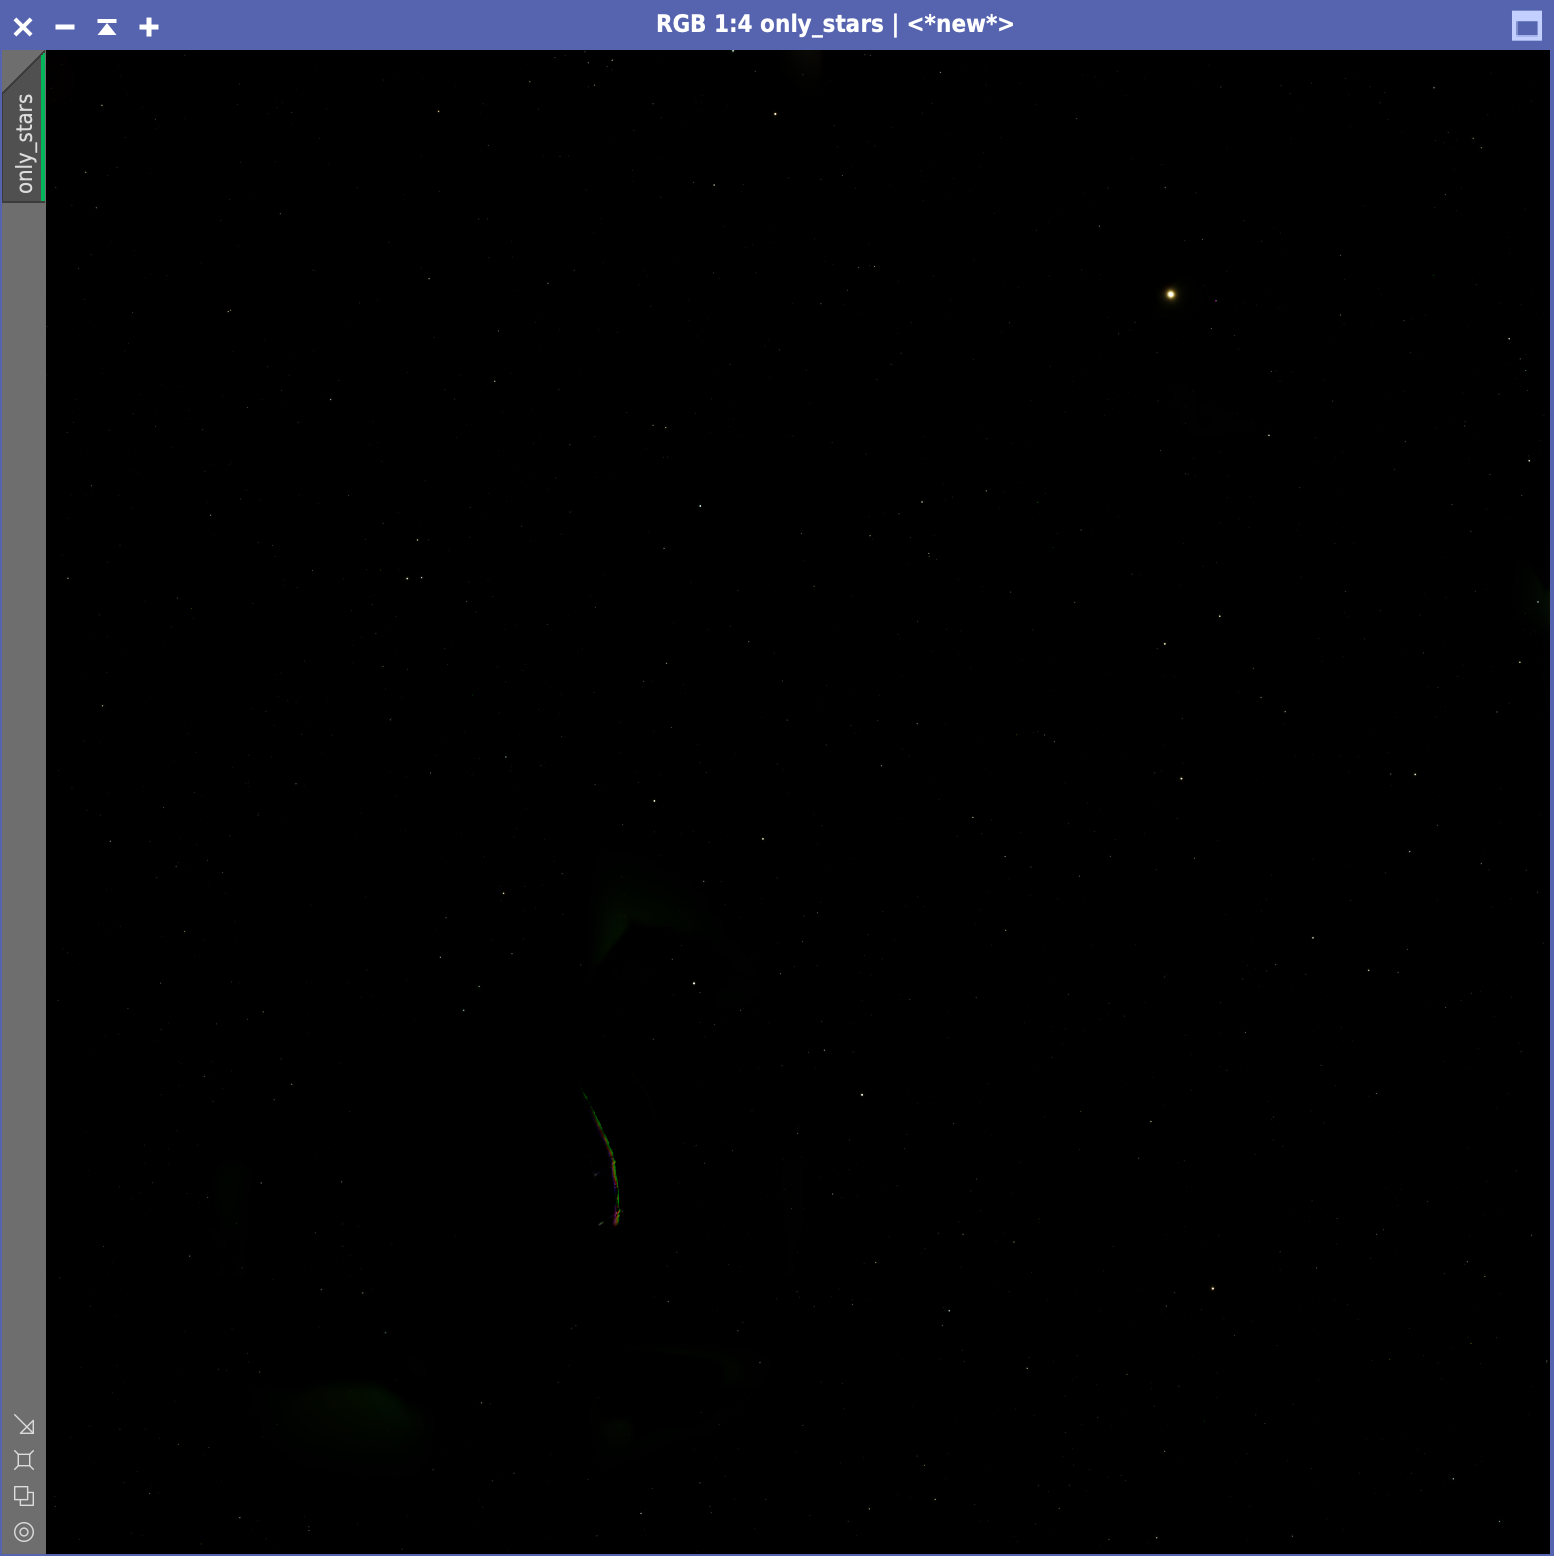
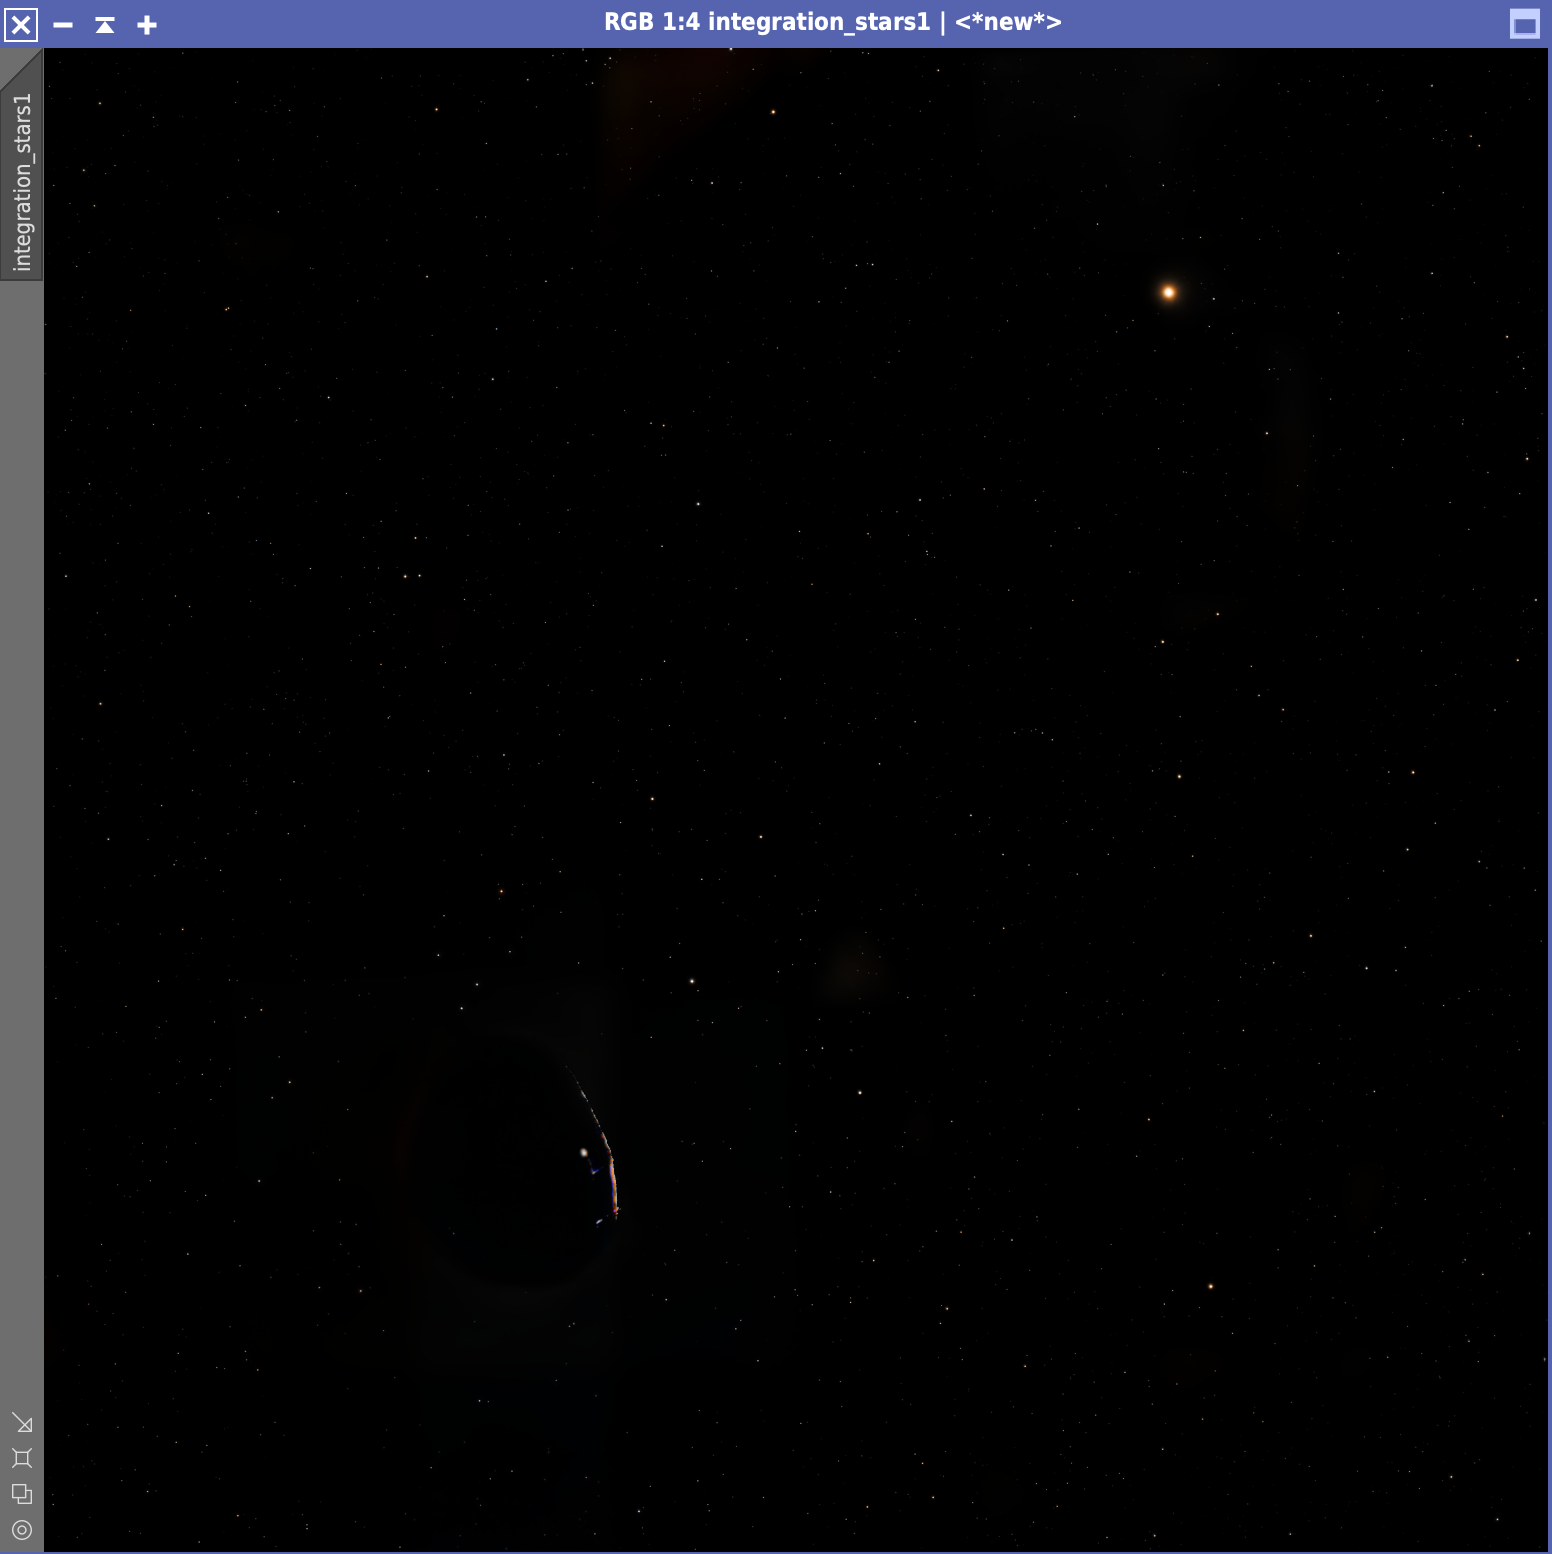
finished project

diff --git a/moon-mars-2025/index.md b/moon-mars-2025/index.md
@@ -10,6 +10,8 @@ would have made things quite difficult. During the imaging session I captured
 * 50x1.28s flat frames
 * 50x1.28s dark frames
 
+using an Astronomik UV-IR cut filter.
+
 ## Preprocessing
 
 I use WBPP to process and stack all these files, lowering both the calibration
@@ -41,30 +43,76 @@ filter I used while capturing frames.
 
 ![](stack3ms.png)
 
-## Dealing with the background of the star field
+## Post-processing the star field
 
-First of all I try to reduce the halo by running ADBE. Given that the halo has a
-very irregular shape, I raise the function degree to 20, increase deviation to 2
-and lower the downsampling factor to 1. With such a high degree function
-PixInsight takes a while to compute the background model, but eventually it's
-done.
+First of all I try to reduce the halo by running ABE. Given that the halo has a
+very irregular shape, I raise the function degree to **11**. It took a lot of
+trial and error to find the degree that results in the "best" star field, the
+one that leads to the least amount of artifacts later on. The result is still
+not perfect, but I'm not too worried since I'm going to use just the stars from
+this image.
 
-![](adbe.png)
+![](stack_abe.png)
 
-The result is not perfect, but I'm not too worried since I'm going to use just
-the stars from this image.
-
-![](stack3s_adbe.png)
-
-## RC Astro
-
-Next I run BlurXterminato and NoiseXterminator as I were processing a plain
-nebula photo. In BlurXterminator I disable nonstellar sharpening to reduce any
-artifact that deconvolution may introduce and that may later be mistaken for a
-star. Finally, I run StarXterminator **twice** to remove the stars. I have to
-run StarXterminator twice because the first run weirdly leaves some traces of
-the halo, whereas in two runs it's almost completely gone. There are some
-artifacts around the moon, but I can remove those with CloneStamp.
+Next I run BlurXterminator as if I were processing a plain nebula photo, but I'm
+only interested in reducing stars (and Mars) so I disable nonstellar sharpening.
+This also reduces any artifact that deconvolution may introduce and that may
+later be mistaken for a star. Then, I run StarXterminator to remove the stars.
+There are some residual artifacts around the moon, but I can remove those with
+CloneStamp. Finally, I use Set Astro's StarStretch to stretch the stars. I
+decrease the stretch amount to 4 so as to reduce the amount of artifacts that
+become visible after the stretching. Also, I prefer not to have the dimmest
+stars visible. The point is that around the moon (where the bright halo was
+strongest) there will invariably be a starless zone and if the rest of the sky
+is packed with stars such zone will be very noticeable later on, once the moon
+is inserted. So, I think it's better seeing fewer stars but with the illusion of
+a more uniform star field across the whole image.
 
 ![](only_stars.png)
 
+It's now time to get rid of the last moon artifacts using CloneStamp. I hate
+using this tool, but there's no other way around the problem.
+
+![](stars_clone_stamp.png)
+
+As I'm using CloneStamp, I realize that there's still a dim trace of the moon's
+halo such that the hole left by the moon is barely noticeable. Since the moon
+will not fill this hole entirely, I think it's better to darken the background.
+To this aim, I create a star mark and use CurvesTransformation to clip the
+background to 0. Then, I use SimplexNoise with amount 0.02 and scale 1 to
+restore a minimal noisy background, so that it's not exactly black.
+
+![](stars_noise.png)
+
+## Post-processing the moon
+
+I use ColorCalibration to get rid of the green cast. To do so, I create two
+previews in the moon stack, a small one surrounding a bright crater and a larger
+one in the background. The result is a neutral moon.
+
+![](moon_calibrated.png)
+
+I use CurvesTransformation to brighten the moon, being careful not to overexpose
+the brightest craters. I also increase saturation in two steps, so that the moon
+regains some color. Finally, I use BlurXterminator with default settings to
+sharpen the details.
+
+![](moon_brightness.png)
+
+## Final image composition
+
+I like ImageBlend to merge the moon and the starry background. Then I rotate the
+image by 180 degrees and use DynamicCrop to remove a thin border of ~50 pixels
+all around the border, where the FFTRegistration didn't have enough pixels to
+integrate.
+
+![](final.jpg)
+
+As a final step, I also generate an annotated version of the image. To that aim,
+I need to plate solve the image again. ImageSolver needs to know that the star
+**47 Gem** is in the picture. I also enter the exact date in which the images
+were captured, as well as the focal length of the telescope (174mm) and the
+pixel size (3.76). When using AnnotateImage it is important to check "Planets"
+so that Mars is properly annotated.
+
+![](final_annotated.jpg)
